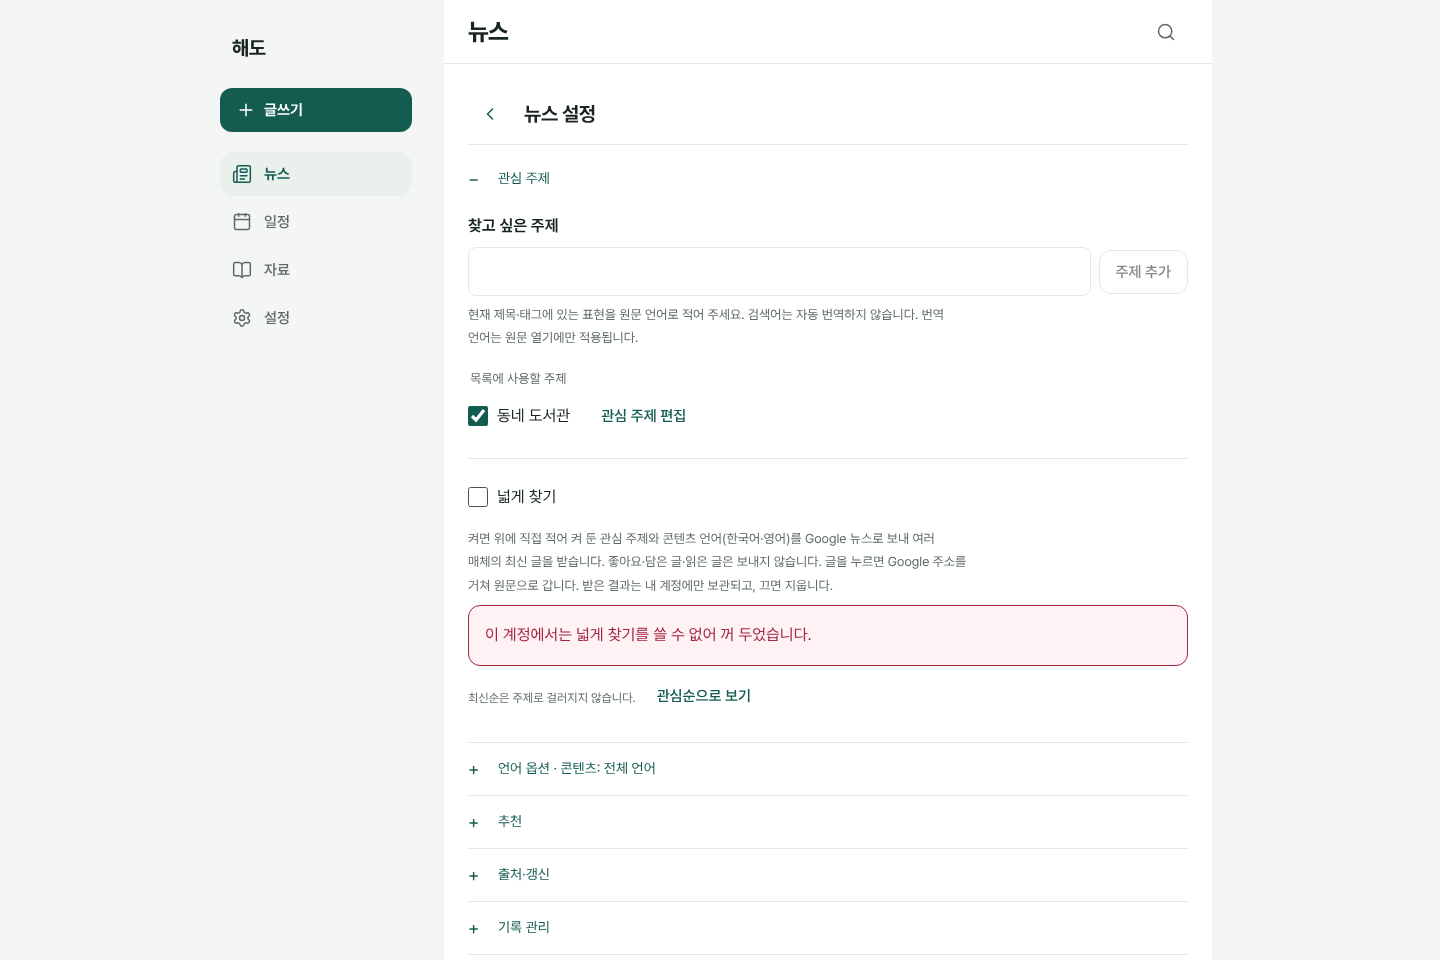
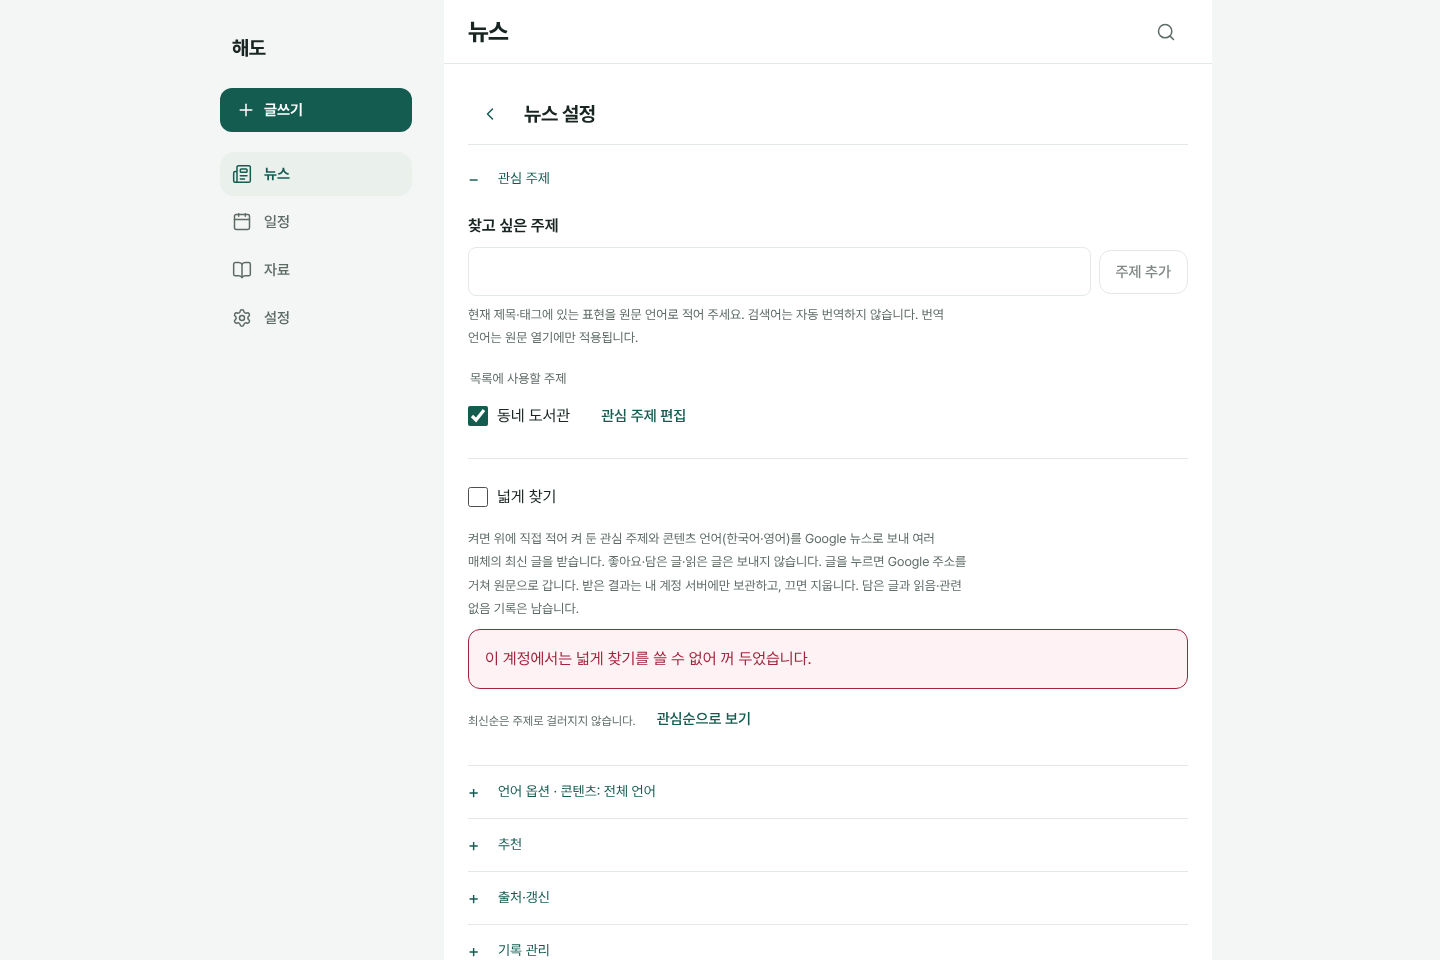
문서: 검수 지적 수정 기록, 두 문서 반응, 설정 화면 캡처 갱신
Claude-Session: https://claude.ai/code/session_01TQ5XqSqWktWLfbj9RNq75X

Changed region(s): [[0.3125, 0.625, 0.5625, 1.0], [0.4688, 0.5938, 0.6562, 0.625]]

diff --git a/docs/design-review/news-card-feed.md b/docs/design-review/news-card-feed.md
@@ -204,6 +204,22 @@
 
 이번 작업 중 검사가 잡아 고친 결함: 초점 복귀가 `제외한 글` 칸의 숨은 원문 링크를 골라 초점을 잃음(넓게 찾은 링크를 복귀 대상에 넣으며 생김), 쪽 고정이 개인 추천을 끈 뒤에도 남아 최신순이 개인 추천 순서로 보임(`life-discovery-reactions-browser` 6건 실패, 실패 로그 보존), 끄기를 두 번째 할 때 서버 사본 지우기를 다시 부르지 않음.
 
+### 독립 검수 지적 수정 (2026-11-11, 검수 뒤)
+
+`news/wide-server`(`ab94caf`)를 이 브랜치에 병합한 뒤 고쳤다. 충돌은 `external-discovery.md` 공개 요청 행 한 곳이었고 넓게 찾기 별도 경로 안내와 기사 이미지 예외를 함께 남겼다.
+
+- **MAJOR-1 이전 셸 과도기 반응 유실:** 반응·읽기 비교를 두 계정 문서로 나눴다([A4](#a4-과도기-이전-판-기기)). 계정 문서 스키마 5→6(MINOR-4 해소).
+- **MAJOR-2 계약 10항:** 화면이 서버 규칙을 먼저 검사한다(위 넓게 찾기의 주제 규칙). 거절 안전망은 계정 뉴스 설정의 예약 항목에 남긴다.
+- **MINOR-1 순서 고정:** 위 쪽 고정. 늦은 넓게 찾기 결과·15분 자동 갱신은 그린 카드 뒤에 붙고 `새 글 n건`으로 알린다.
+- **MINOR-2 문구:** "받은 결과는 내 계정 서버에만 보관하고, 끄면 지웁니다. 담은 글과 읽음·관련 없음 기록은 남습니다."
+- **MINOR-3 노컷뉴스:** [출처 표](discovery-sources.md)의 날짜 보정 절.
+
+더한 검사: `tests/news-wide-topic-rule.test.cjs`(4개, 서버·화면 규칙 동일성), `tests/discovery-account-pair.test.cjs`(7개, 이전 판 검증기 고정본으로 두 문서 확인), `tests/full-backup.test.cjs`의 두 문서 백업(이전 판 `full-backup.js`가 새 백업을 엶), `tests/discovery-card-feed.test.cjs`의 `spreadAfter`·노컷뉴스 사례, `tests/news-wide-search-browser.cjs` 19개(규칙 밖 주제·거절 유지, 그린 카드 고정 2개), `tests/news-old-shell-sync-browser.cjs` 7개(이전 셸을 아홉 파일 고정본으로, 관찰을 단언으로).
+
+규칙 변경으로 함께 고친 기존 단언: 계정 문서 스키마 5를 단언하던 `account-docs-sync`·`happiness-days`·`material-deleted-marker-sync` 검사(→ 6), 넓게 찾기 계획 단위 검사(규칙 밖 주제는 `rule` 이유로 보내지 않음), 넓게 찾기 브라우저의 서버 거절 검사(→ 규칙 밖은 보내지 않고, 규칙이 받는 주제를 서버가 거절할 때의 안전망), 노컷뉴스 사례(미래 판정 → 언제나 보정).
+
+변이(모두 원복): 확장 항목을 기존 문서에 씀 → 두 문서 단위 3개·이전 셸 브라우저 3개 실패 / 화면 규칙에서 `-` 이음 규칙 빼기 → 규칙 동일성 3개 실패 / 응답·자동 갱신 때 순서 다시 계산 → 순서 고정 브라우저 2개 실패 / 다른 출처에도 GMT 보정 → 노컷뉴스 사례 실패.
+
 ### 화면
 
 익명 합성 목록과 단색 띠 이미지다. 실제 기사나 실제 매체 이미지가 아니다.
